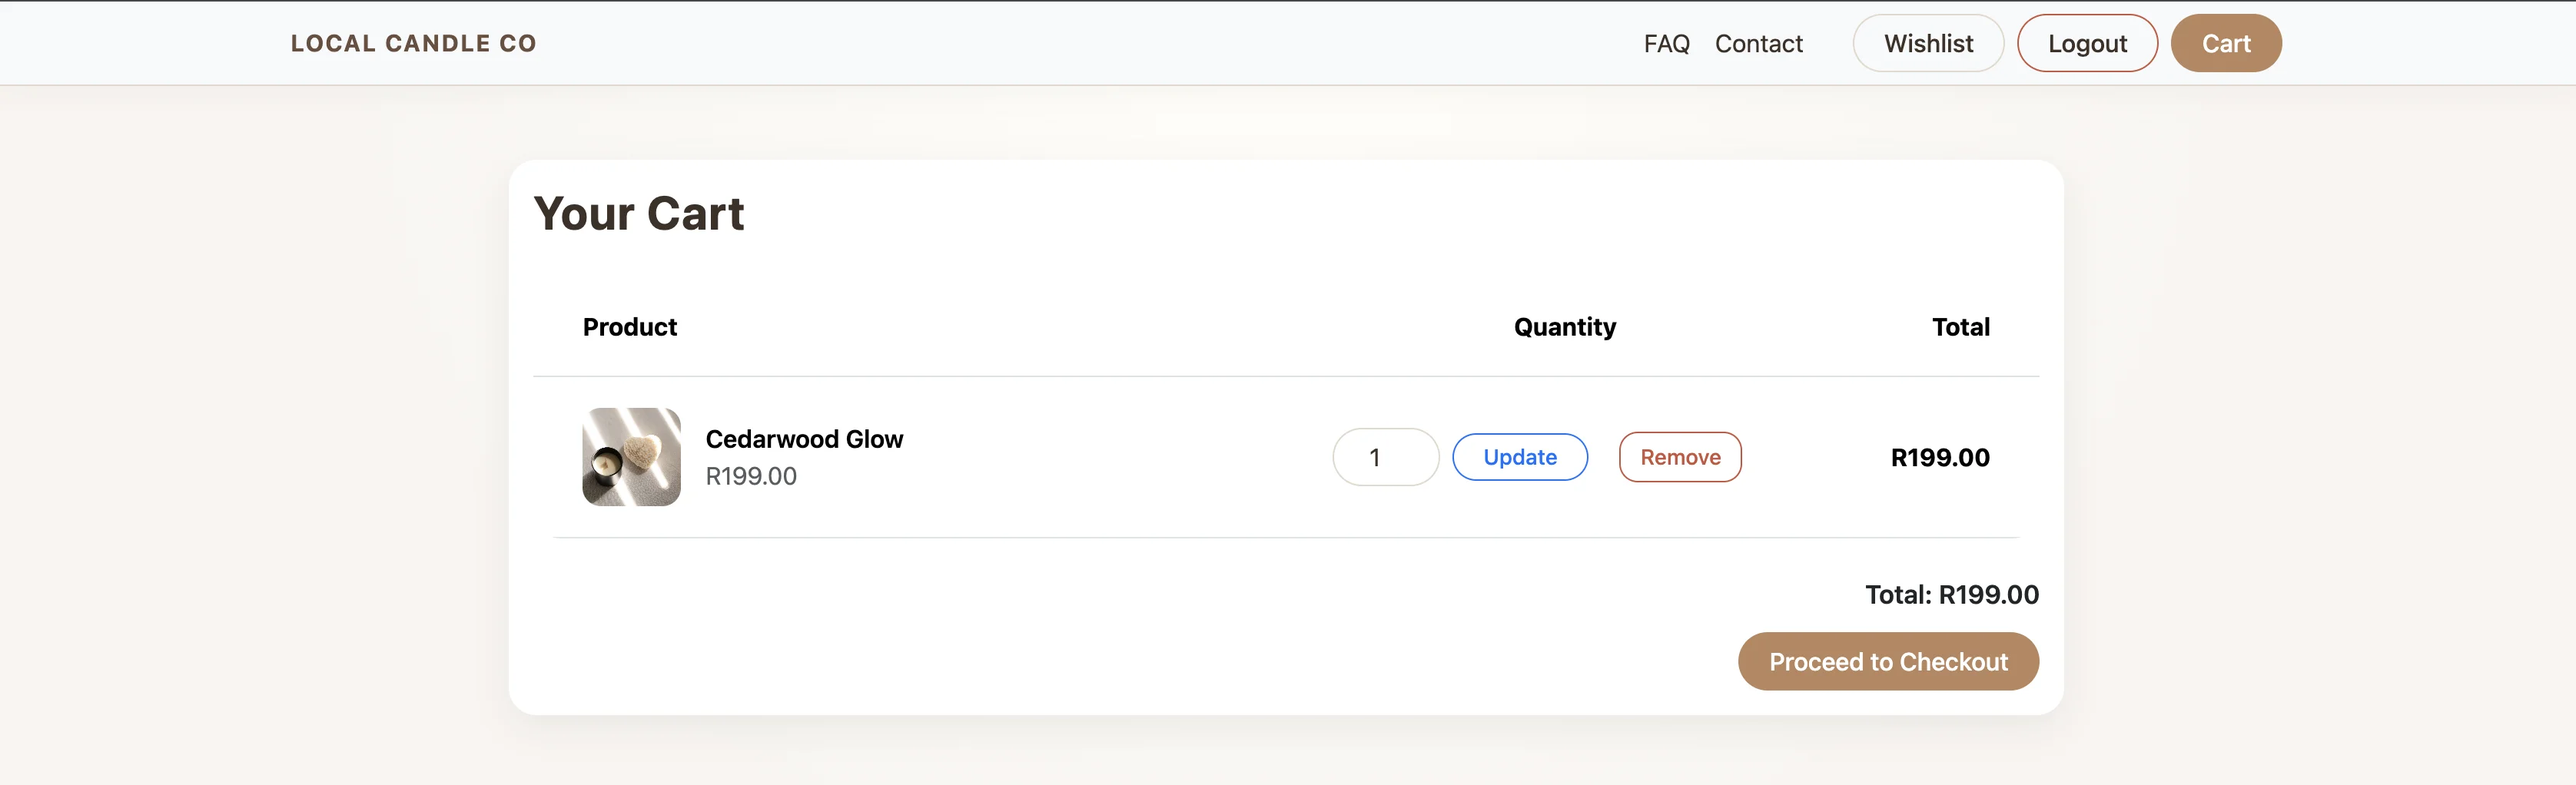
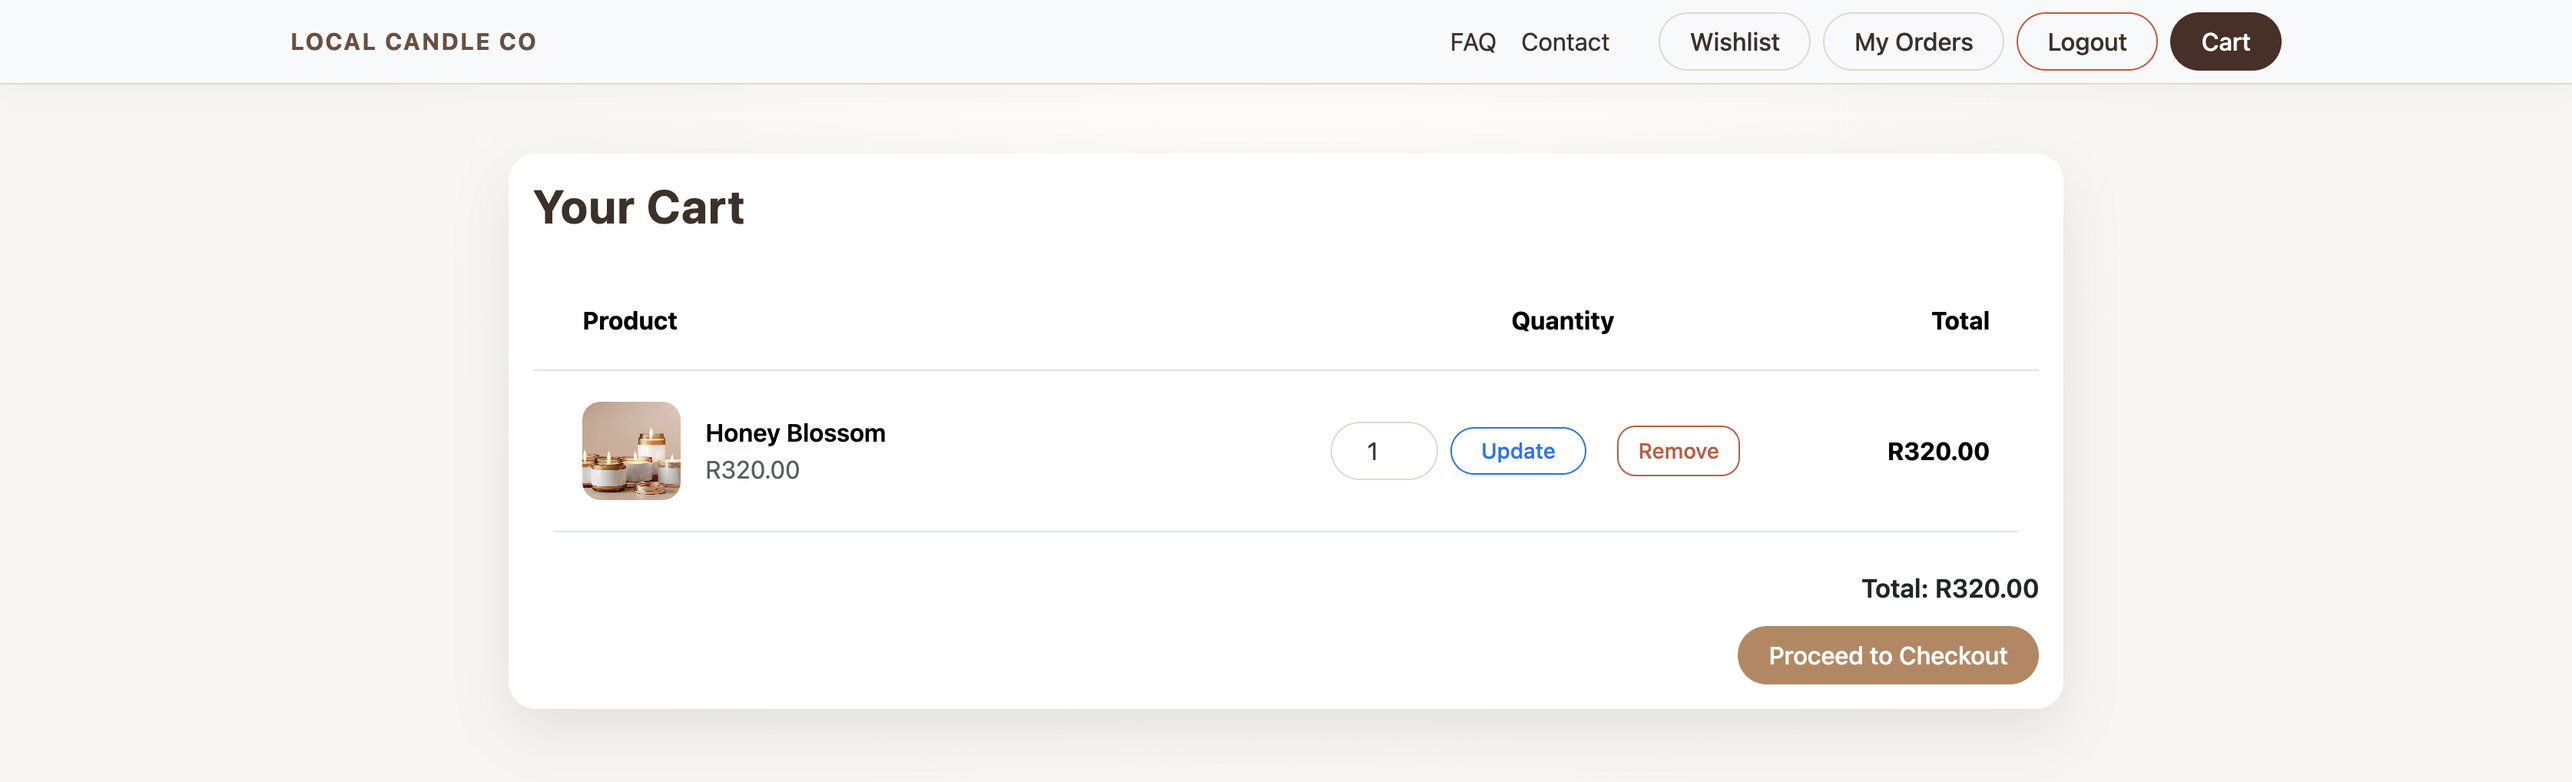
docs: add order history and SEO sitemap/robots resubmission updates

diff --git a/README.md b/README.md
@@ -82,7 +82,7 @@ B2C (Business to Consumer) retail of scented candles.
 ### Reason for Authentication
 Users create accounts to:
 - Save wishlist items
-- View order details in email
+- View previous orders in My Orders (order history)
 - Save contact details for future purchases
 
 ---
@@ -111,6 +111,7 @@ Users create accounts to:
 - Admin can manage orders
 - User registration, login & logout
 - Wishlist items
+- Order history
 - Newsletter signup
 - Contact the store
 - View FAQs
@@ -134,11 +135,10 @@ Users create accounts to:
 ![ERD diagram](static/images/wireframe-erd.png)
 
 ### Design Choices
-REMEMBER: Elaborate on below section
-- Bootstrap for responsive design
-- Neutral colour palette (cream, olive, charcoal)
-- Clean serif + sans-serif fonts
-- Minimal layout to place focus on product photos
+
+The visual design of Local Candle Co was intentionally kept minimal and elegant to reflect a premium, handcrafted product. A neutral colour palette consisting of warm creams, soft browns, and charcoal tones was chosen to complement candle imagery and avoid visual clutter. Bootstrap was used to ensure consistent spacing, alignment, and responsive behaviour across devices, allowing the layout to scale cleanly from mobile to desktop.
+
+Typography combines clean sans-serif fonts for readability with subtle serif accents for headings to convey warmth and craftsmanship. Whitespace was used deliberately to reduce cognitive load and guide the user’s focus toward products and calls to action. Navigation was kept shallow, with key pages accessible within one or two clicks, improving usability and supporting conversion-focused user journeys.
 
 ---
 
@@ -154,10 +154,23 @@ REMEMBER: Elaborate on below section
 - Newsletter signup
 - FAQ page
 - Admin management for products, reviews, FAQs, contacts, orders
-- User profile page displaying previous orders
+- Order history (My Orders) page allowing authenticated users to view previous purchases
 - SEO (meta tags, robots.txt, sitemap.xml)
 - Custom error pages (404, 500)
 - Mock Facebook Business Page
+
+### Order History (User Profile)
+
+Authenticated users have access to a **My Orders** page, where all completed purchases are displayed in chronological order. Each order entry includes the order number, date and time placed, total amount, and payment status. This provides users with clear post-purchase feedback and allows them to reference previous orders at any time after checkout.
+
+This feature directly addresses the requirement for persistent order references following successful transactions, ensuring users are not solely reliant on confirmation emails.
+
+#### Order History Interface
+
+The screenshot below shows the user-facing order history page displaying completed purchases for an authenticated user.
+
+![Order history page](static/images/orders-history.webp)
+
 
 ### Future Features
 - Product reviews
@@ -200,6 +213,16 @@ These reference the deployed production URL and ensure proper indexing by search
 - Internal linking via navbar and footer
 - No lorem ipsum
 - 404 and 500 pages with correct responses
+
+### Sitemap & Robots Fix (Resubmission Update)
+
+As part of assessor feedback, the sitemap implementation was expanded to include **all relevant site routes**, not only product pages. The sitemap now aggregates multiple sitemap classes covering core site pages, marketing pages (FAQ and Contact), authentication pages (Login and Signup), and active product detail pages. The `robots.txt` file was updated to dynamically reference the live sitemap URL using Django URL reversing, ensuring accurate indexing in production. This results in complete crawl coverage and aligns with real-world SEO best practices.
+
+#### Robots.txt:
+![robots.txt](static/images/robots.webp)
+
+#### Sitemap:
+![sitemap](static/images/sitemaps.webp)
 
 ---
 
@@ -248,19 +271,39 @@ A full detailed testing document is available here:
 ---
 
 ## Deployment
-[Official Page](https://devcenter.heroku.com/articles/git) (Ctrl + click)
-### Heroku Deployment Steps:
+
+### Run locally
+1. Clone the repository.
+2. Create and activate a virtual environment.
+3. Install dependencies:
+   - `pip install -r requirements.txt`
+4. Create an `.env` file (do not commit it) and add required variables (example):
+   - `SECRET_KEY`
+   - `DEBUG=True`
+   - Stripe keys (if testing payments)
+5. Run migrations:
+   - `python manage.py migrate`
+6. Create a superuser (optional):
+   - `python manage.py createsuperuser`
+7. Start the server:
+   - `python manage.py runserver`
+
+### Heroku deployment
 1. Create a new Heroku app.
+2. In **Heroku Config Vars**, set:
+   - `SECRET_KEY`
+   - `DEBUG=False`
+   - `DATABASE_URL` (automatically added if using Heroku Postgres)
+   - `STRIPE_PUBLIC_KEY`
+   - `STRIPE_SECRET_KEY`
+   - Email settings (production SMTP): `EMAIL_HOST`, `EMAIL_PORT`, `EMAIL_HOST_USER`, `EMAIL_HOST_PASSWORD`, `EMAIL_USE_TLS`, `DEFAULT_FROM_EMAIL`
+3. In Heroku **Buildpacks**, add:
+   - `heroku/python`
+4. Connect Heroku to the GitHub repository and deploy from the `main` branch.
+5. Run migrations on Heroku:
+   - `heroku run python manage.py migrate`
+6. Confirm the deployed site loads and key flows work (login, checkout, email confirmation, order history).
 
-2. Set `DATABASE_URL`, `SECRET_KEY`, `STRIPE_PUBLIC_KEY`, `STRIPE_SECRET_KEY`, etc. in Heroku Config Vars.
-
-3. Connect the app to the GitHub repository.
-
-4. Set buildpacks (e.g. `heroku/python`).
-
-5. Deploy the `main` branch and run migrations.
-
-6. Confirm that the deployed site matches the local development version.
 
 ## Credits
 ### Reference Material & Learning Resources

diff --git a/TESTING.md b/TESTING.md
@@ -33,15 +33,21 @@ All manual tests were completed using:
 ---
 
 ### 1.1 Navigation Bar
+
+#### Logged-out:
 ![navbar](static/images/navbar.png)
 ![mobile](static/images/mobile-nav.png)
+
+#### Logged-in:
+![navbar login](static/images/navbar-log-in.png)
+![mobile login](static/images/mobile-nav-log-in.png)
 
 | Test | Expected Result | Pass |
 |------|------------------|------|
 | Navbar loads on all pages | Visible & styled | ✔ |
 | Mobile shows burger dropdown | Dropdown opens from right | ✔ |
 | Logged-out links show: Login, Register | Correct visibility | ✔ |
-| Logged-in links show: Wishlist, Logout | Correct visibility | ✔ |
+| Logged-in links show: Wishlist, My Orders, Logout | Correct visibility | ✔ |
 | Cart button always visible | Works & redirects | ✔ |
 
 ---
@@ -157,6 +163,11 @@ All manual tests were completed using:
 | No exceptions occur | ✔ PASS |
 | Email content matches expected | ✔ PASS |
 
+**Note:**  
+During local development, confirmation emails are printed to the terminal using Django’s console email backend. In production (Heroku), the email backend is configured to use SMTP, and confirmation emails are successfully sent and received in a real inbox.
+
+![email](static/images/email-confirmation.png)
+
 ---
 
 ## 2. Order History (My Orders) – Testing
@@ -164,6 +175,8 @@ All manual tests were completed using:
 ### Feature Description
 Authenticated users can view a list of their completed purchases via the **My Orders** page.  
 This feature allows users to reference previous orders, including order number, date, total amount, and payment status.
+
+![Order history page](static/images/orders-history.webp)
 
 ---
 
@@ -322,6 +335,7 @@ The HTML for all main pages was validated using the [HTML W3C Validator](https:/
 | logout.html | ![screenshot](static/images/logout-validation-html.png) | Pass: No Errors |
 | signup.html | ![screenshot](static/images/signup-validator-html.png) | Pass: No Errors |
 | wishlist.html | ![screenshot](static/images/wishlist-validation-html.png) | Pass: No Errors |
+| my_order.html | ![screenshot](static/images/order-history-validation-html.png) | Pass: No Errors |
 | contact.html | ![screenshot](static/images/contact-validation-html.png) | Pass: No Errors |
 | faq_form.html | ![screenshot](static/images/faq-validation-html.png) | Pass: No Errors |
 | newsletter_thanks.html | ![screenshot](static/images/login-validation-html.png) | Pass: No Errors |
